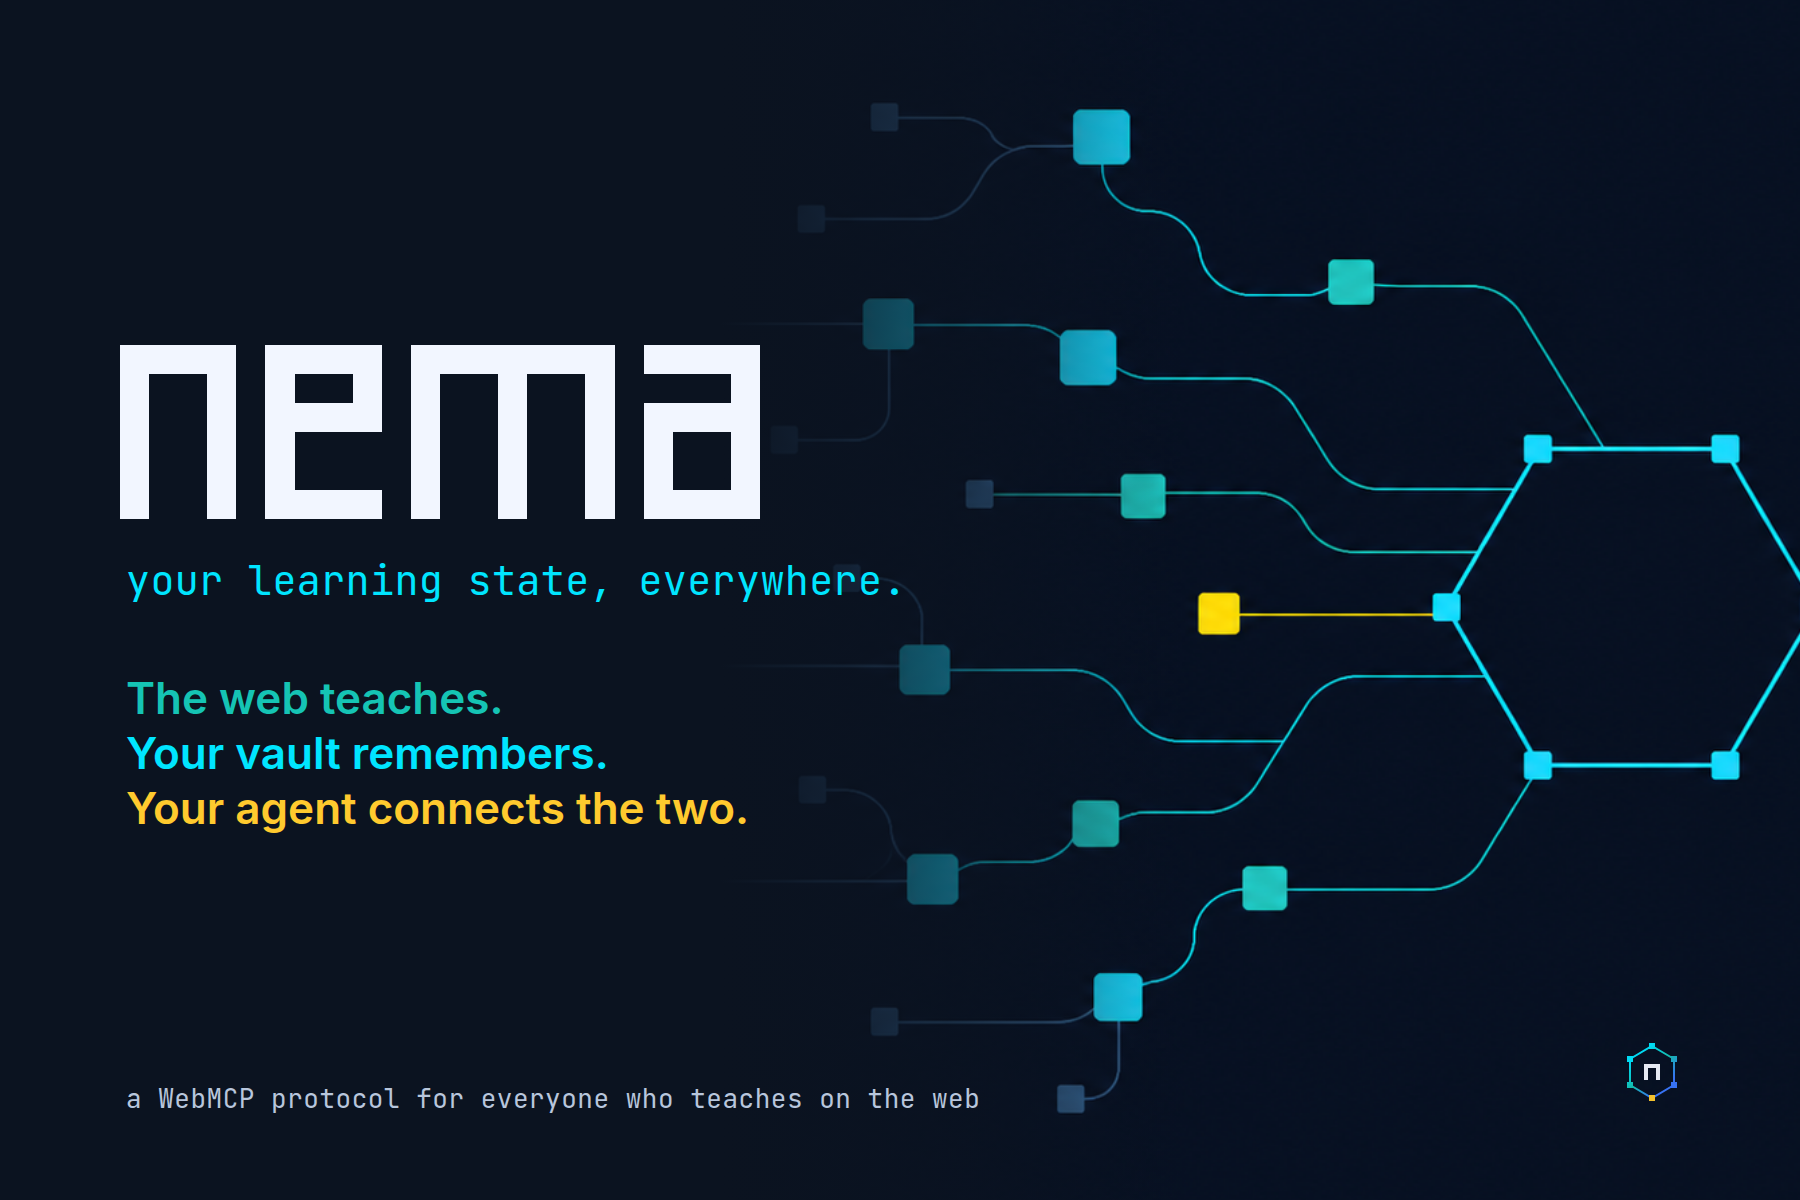
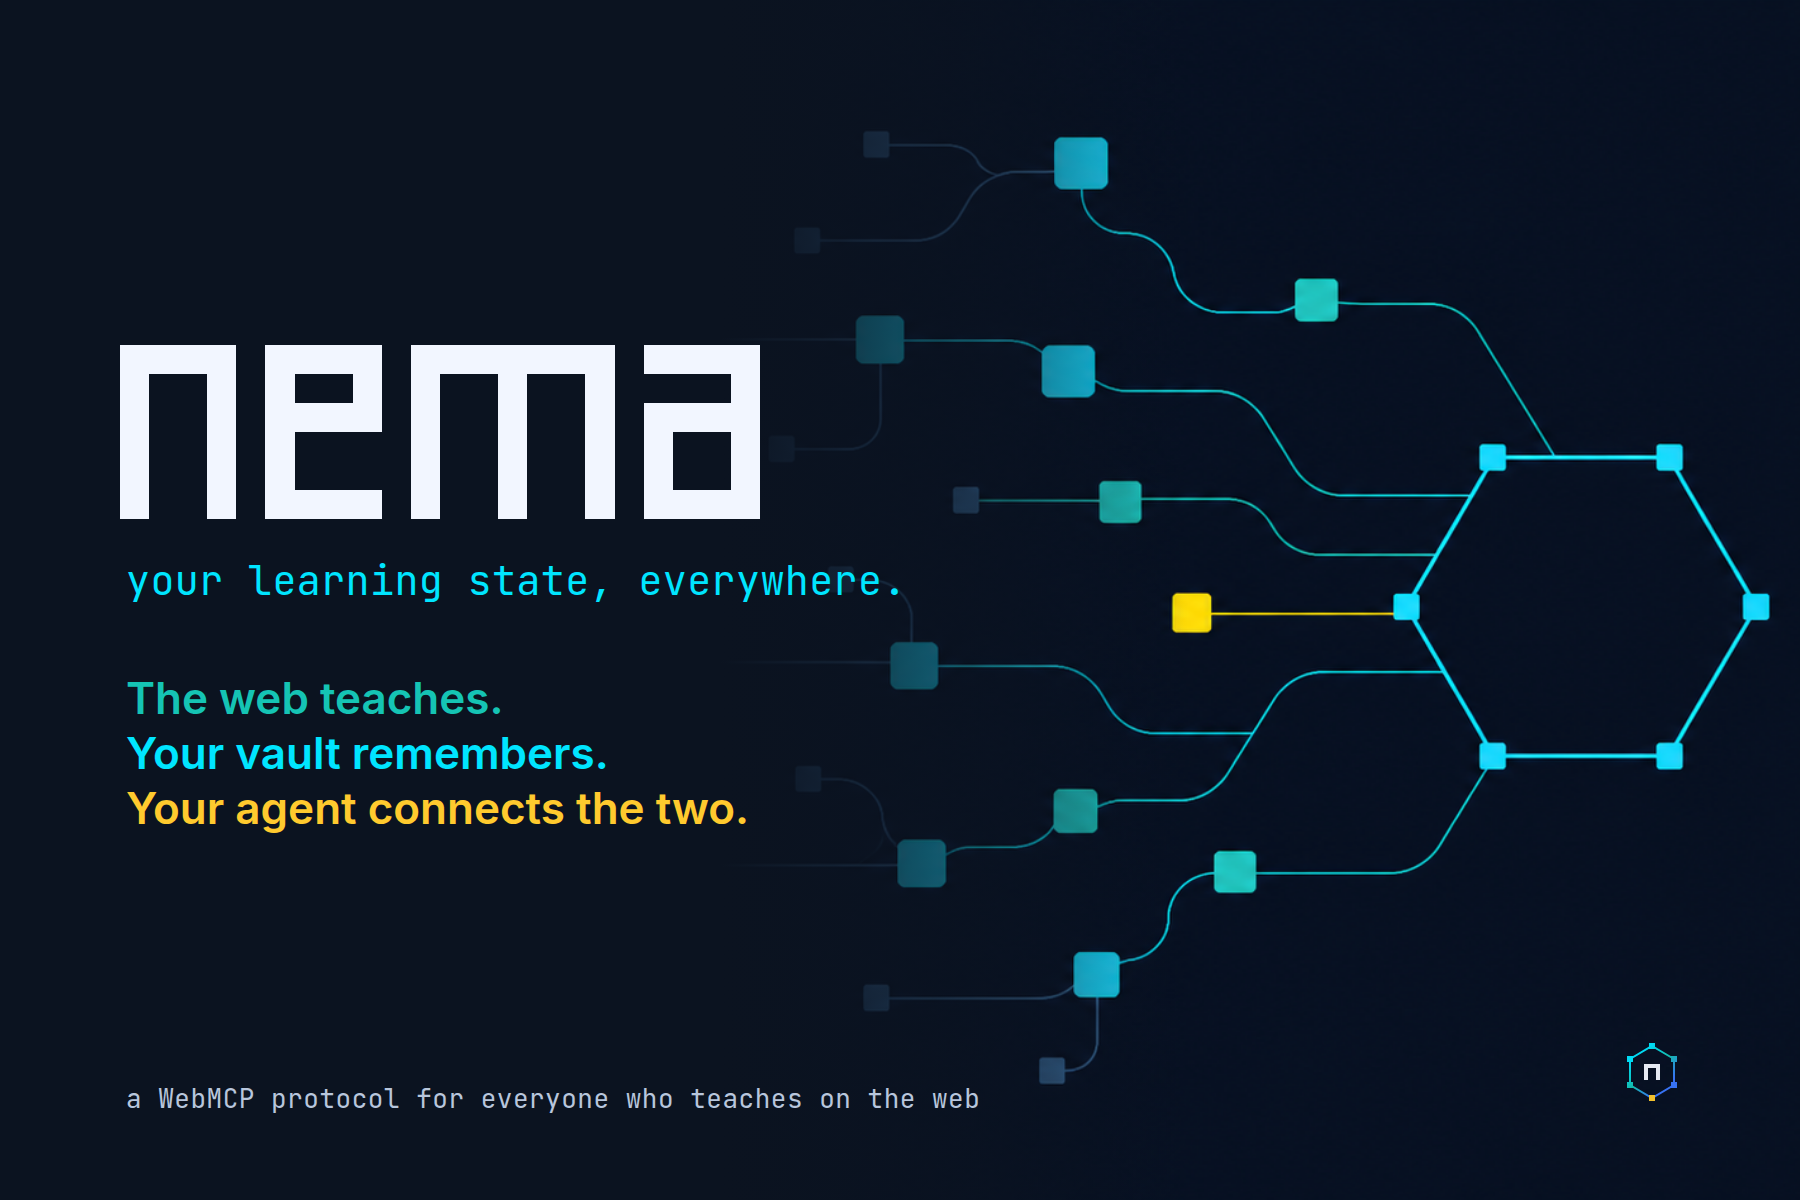
docs: final devpost thumbnail
Claude-Session: https://claude.ai/code/session_01AfeggrhBqzmN8guag9N5jj

diff --git a/docs/assets/devpost-thumbnail.html b/docs/assets/devpost-thumbnail.html
@@ -4,7 +4,7 @@
 <link rel="stylesheet" href="http://localhost:8780/shared/brand/tokens.css">
 <style>
   html, body { margin: 0; background: #0B1320; }
-  .card { position: relative; width: 1800px; height: 1200px; overflow: hidden; background: #0B1320 url("ART_URL") right -70px center / auto 106% no-repeat; font-family: var(--font-ui, Inter, sans-serif); color: #F2F6FF; }
+  .card { position: relative; width: 1800px; height: 1200px; overflow: hidden; background: #0B1320 url("ART_URL") right -6px center / auto 100% no-repeat; font-family: var(--font-ui, Inter, sans-serif); color: #F2F6FF; }
   .card::before { content: ""; position: absolute; inset: 0; background: linear-gradient(90deg, #0B1320 0%, #0B1320 40%, rgba(11,19,32,0.6) 54%, rgba(11,19,32,0) 66%); }
   .copy { position: absolute; left: 120px; top: 50%; transform: translateY(-52%); width: 900px; }
   .word { width: 640px; color: #F2F6FF; }
